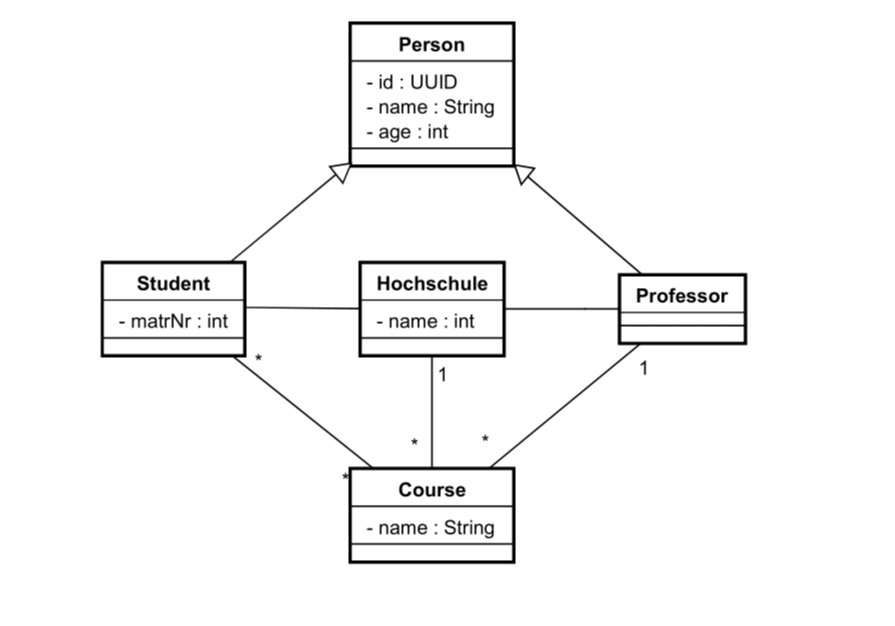
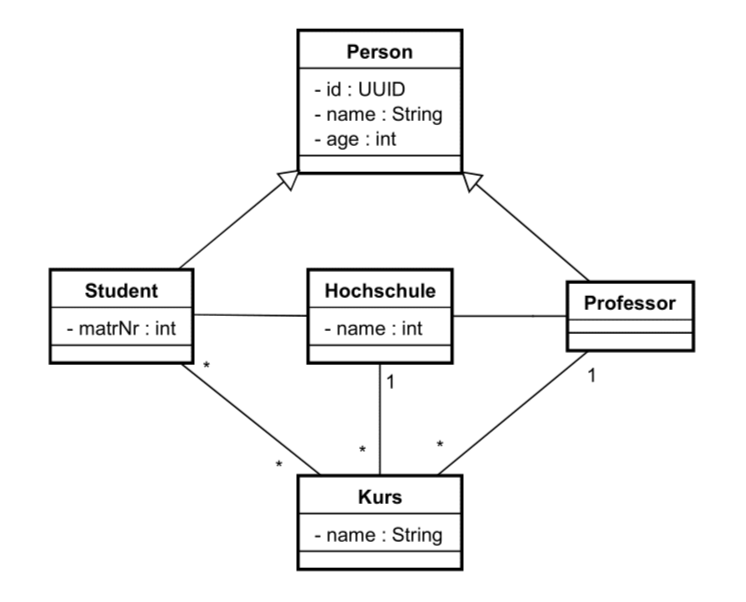
renamed file

diff --git a/src/index.js b/src/index.js
@@ -1,4 +1,4 @@
-import Course from './models/course.js';
+import Kurs from './models/kurs.js';
 import Hochschule from './models/hochschule.js';
 import Professor from './models/professor.js';
 import Student from './models/student.js';
@@ -10,14 +10,15 @@ var student2 = new Student("simon", 21, fh_muenster, "1235");
 var student3 = new Student("kevin", 23, fh_muenster, "1236");
 var student4 = new Student("pascal", 22, fh_muenster, "1237");
 var professor = new Professor("Humernbrum", 30, fh_muenster);
-var course = new Course(
+var course = new Kurs(
     "BigData", [
         student1,
         student2,
         student3,
         student4,
     ],
-    professor
+    professor,
+    fh_muenster,
 );
 
 console.log(course.toString());

diff --git a/src/mongo_access/db.js b/src/mongo_access/db.js
@@ -13,14 +13,22 @@ const options = {
     }, 
     authSource: databaseName
 };
-let collection = null;
+let personCollection = null;
+let hochschuleCollection = null;
+let studentCollection = null;
+let professorCollection = null;
+let courseCollection = null;
+
 MongoDB.MongoClient.connect(url, options, async (err, client) => {
     if (err) {
         console.log('Could not connect to MongoDB: ', err.stack);
         process.exit(1);
     } else {
         var db = client.db(databaseName);
-        collection = db.collection('employees');
+        personCollection = db.collection('person');
+        //hochschuleCollection = db.collection('hochschule');
     }
 });
-export default collection;
+export {
+    personCollection
+};

diff --git a/src/models/kurs.js b/src/models/kurs.js
@@ -1,0 +1,13 @@
+export default class Kurs {
+    constructor(name, hoerer, leser, hochschule) {
+      this.name = name;
+      this.hoerer = hoerer;
+      this.leser = leser;
+      this.hochschule = hochschule;
+    }
+    toString() {
+        var hoerer = this.hoerer.map(e => "\n{" + e.toString() +  "}").toString();
+        return "Der Kurs '" + this.name + "' der Hochschule: '" + this.hochschule.name + "' wird gelesen von Prof. " + this.leser.name + " und gehört von " + hoerer;
+    }
+  }
+  
